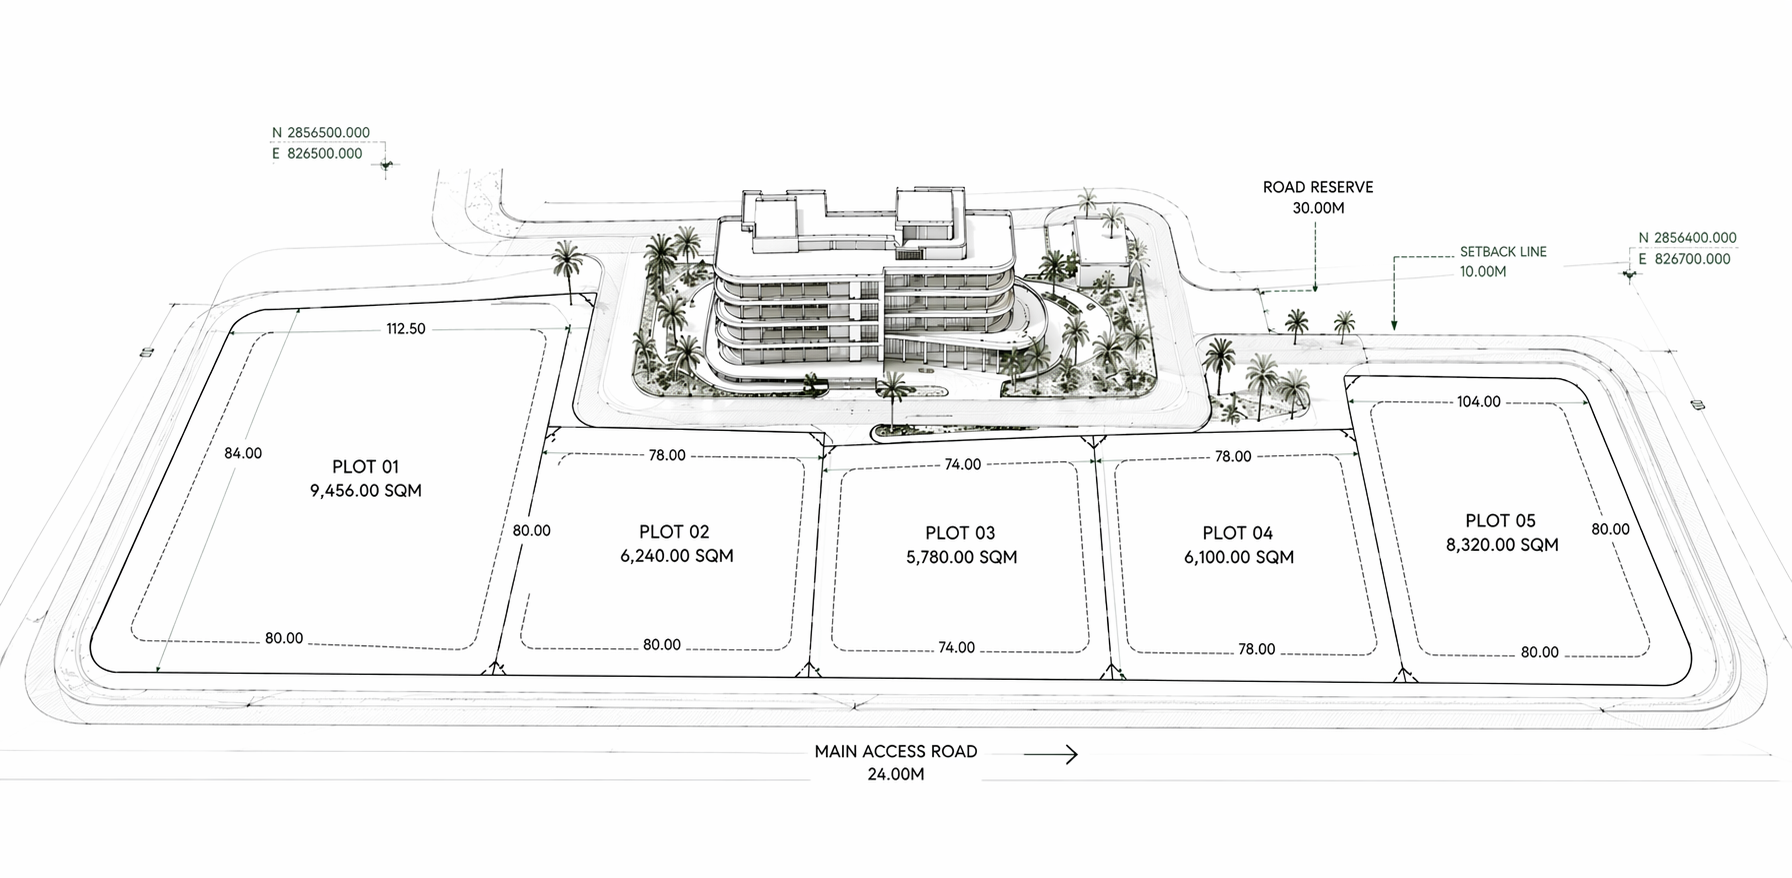
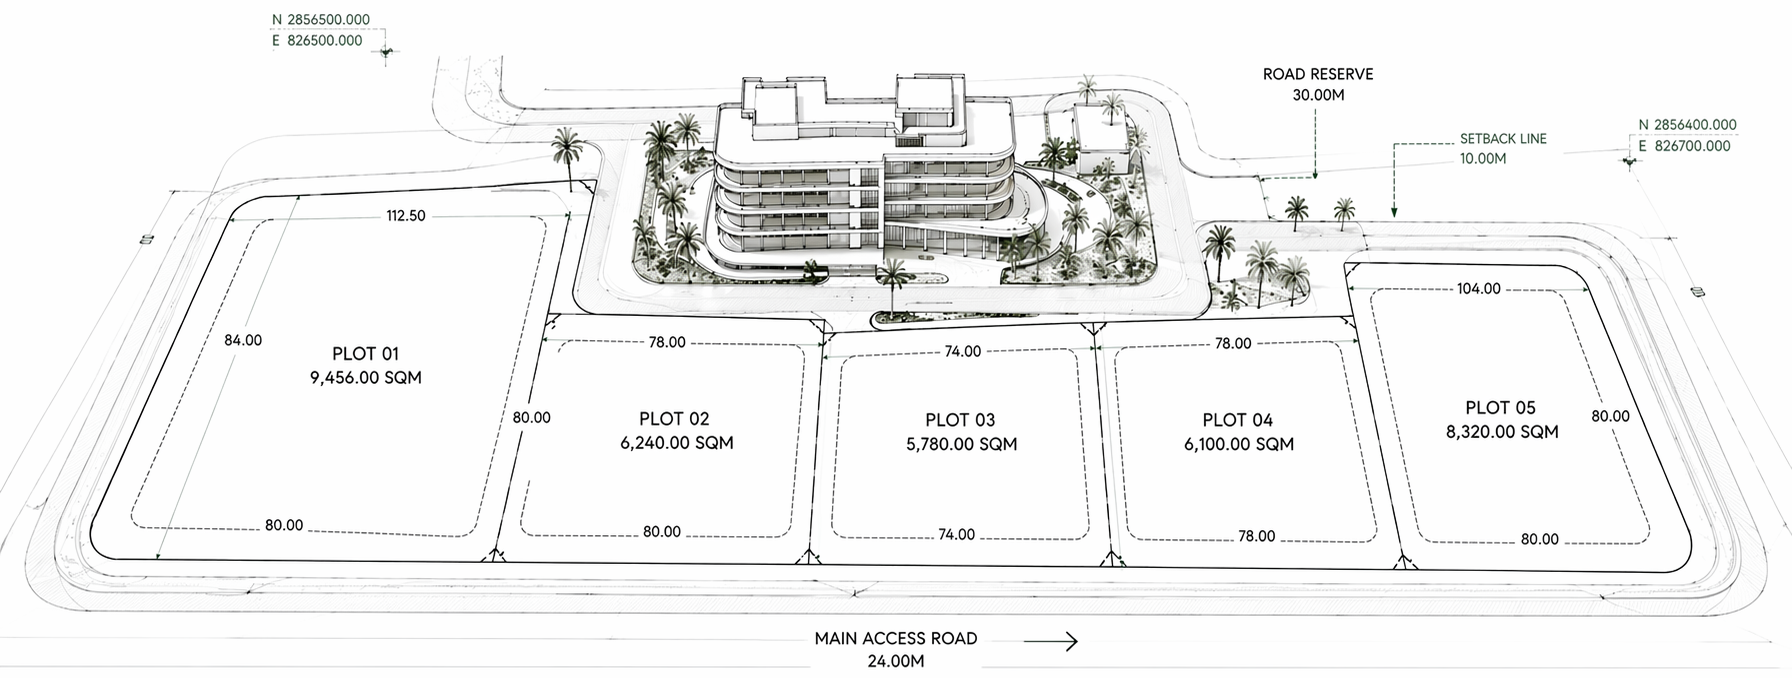
Fix hero plan sizing and swap in cropped image

diff --git a/faxation-Namou-main/v2/css/styles.css b/faxation-Namou-main/v2/css/styles.css
@@ -174,7 +174,6 @@ img.logo-dark { display: none; }
    HERO — cinematic center with full-bleed backdrop
    ===================================================== */
 .hero {
-  min-height: 100svh;
   display: flex;
   flex-direction: column;
   align-items: center;
@@ -186,21 +185,17 @@ img.logo-dark { display: none; }
 }
 
 .hero__plan {
-  flex: 1 1 auto;
-  min-height: 280px;
   width: 100vw;
+  aspect-ratio: 1792 / 678;
   margin-left: calc(50% - 50vw);
   margin-right: calc(50% - 50vw);
+  margin-top: 48px;
   background-image: url("../../assets/images/hero-bg-light.png");
-  background-size: contain;
+  background-size: 100% auto;
   background-position: center center;
   background-repeat: no-repeat;
   pointer-events: none;
   z-index: 0;
-}
-
-[data-theme="dark"] .hero__plan {
-  background-image: url("../../assets/images/hero-bg-dark.png");
 }
 
 .hero__inner {
